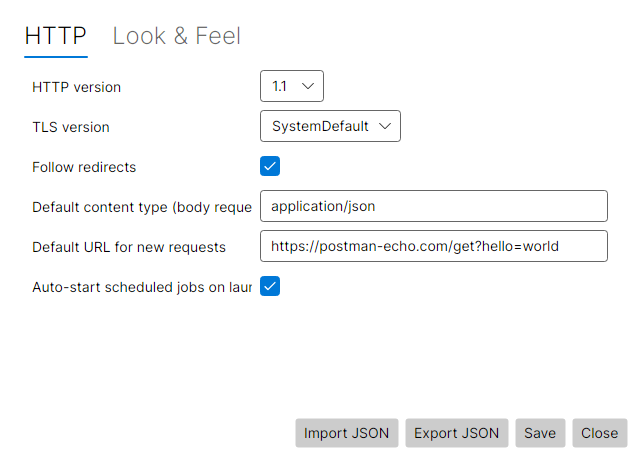
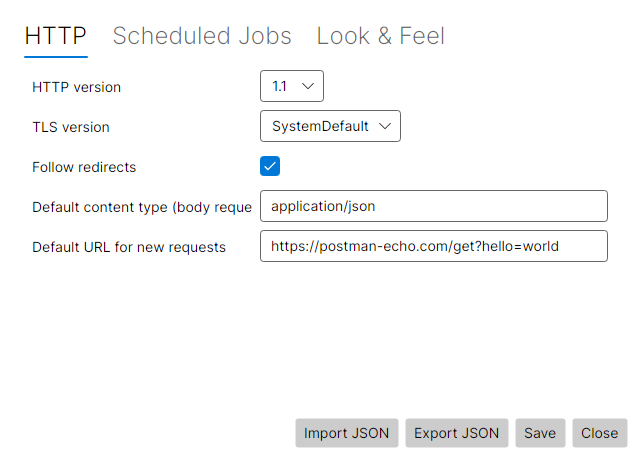
Add default interval global option for scheduled jobs
Agent-Logs-Url: https://github.com/niklaslundberg/Arbor.HttpClient/sessions/1543bb3d-784c-4af3-8e8b-c386ccefa35a

Changed region(s): [[0.0312, 0.5783, 0.4375, 0.6696], [0.1562, 0.0609, 0.4688, 0.1217], [0.5, 0.0609, 0.7188, 0.1217]]

diff --git a/src/Arbor.HttpClient.Desktop.E2E.Tests/MainWindowUiTests.cs b/src/Arbor.HttpClient.Desktop.E2E.Tests/MainWindowUiTests.cs
@@ -138,7 +138,7 @@ public class MainWindowUiTests
     }
 
     [Fact]
-    public async Task OptionsWindow_ShouldDisplayScheduledJobAutoStartToggle()
+    public async Task OptionsWindow_ShouldDisplayScheduledJobsTab_WithAutoStartAndIntervalOptions()
     {
         using var session = HeadlessUnitTestSession.StartNew(typeof(TestEntryPoint));
 
@@ -164,13 +164,26 @@ public class MainWindowUiTests
             var window = new OptionsWindow { DataContext = viewModel };
             window.Show();
 
+            // Switch to the Scheduled Jobs tab so its content is rendered
+            var tabControl = window.GetVisualDescendants().OfType<TabControl>().First();
+            var scheduledJobsTab = tabControl.Items
+                .OfType<TabItem>()
+                .First(ti => string.Equals(ti.Header?.ToString(), "Scheduled Jobs", StringComparison.Ordinal));
+            tabControl.SelectedItem = scheduledJobsTab;
+
             AvaloniaHeadlessPlatform.ForceRenderTimerTick(2);
 
-            window.GetVisualDescendants()
-                .OfType<TextBlock>()
-                .Any(tb => string.Equals(tb.Text, "Auto-start scheduled jobs on launch", StringComparison.Ordinal))
+            var textBlocks = window.GetVisualDescendants().OfType<TextBlock>().Select(tb => tb.Text).ToList();
+
+            textBlocks
+                .Any(t => string.Equals(t, "Auto-start scheduled jobs on launch", StringComparison.Ordinal))
                 .Should()
-                .BeTrue();
+                .BeTrue("auto-start toggle should be on the Scheduled Jobs tab");
+
+            textBlocks
+                .Any(t => string.Equals(t, "Default interval for new jobs", StringComparison.Ordinal))
+                .Should()
+                .BeTrue("default interval label should be on the Scheduled Jobs tab");
 
             var screenshot = window.GetLastRenderedFrame() ?? window.CaptureRenderedFrame();
             var screenshotPath = Path.Combine(Path.GetTempPath(), "arbor-httpclient-options-window.png");

diff --git a/src/Arbor.HttpClient.Desktop/ViewModels/MainWindowViewModel.cs b/src/Arbor.HttpClient.Desktop/ViewModels/MainWindowViewModel.cs
@@ -155,6 +155,9 @@ public partial class MainWindowViewModel : ViewModelBase, IDisposable
     [ObservableProperty]
     private bool _autoStartScheduledJobsOnLaunch = true;
 
+    [ObservableProperty]
+    private int _defaultScheduledJobIntervalSeconds = 60;
+
     public double UiFontSize =>
         double.TryParse(UiFontSizeText, NumberStyles.Float, CultureInfo.InvariantCulture, out var parsed)
             ? parsed
@@ -408,7 +411,8 @@ public partial class MainWindowViewModel : ViewModelBase, IDisposable
             },
             ScheduledJobs = new ScheduledJobsOptions
             {
-                AutoStartOnLaunch = AutoStartScheduledJobsOnLaunch
+                AutoStartOnLaunch = AutoStartScheduledJobsOnLaunch,
+                DefaultIntervalSeconds = Math.Max(1, DefaultScheduledJobIntervalSeconds)
             }
         };
 
@@ -430,6 +434,7 @@ public partial class MainWindowViewModel : ViewModelBase, IDisposable
         UiFontFamily = options.Appearance.FontFamily;
         UiFontSizeText = options.Appearance.FontSize.ToString("0.##", CultureInfo.InvariantCulture);
         AutoStartScheduledJobsOnLaunch = options.ScheduledJobs.AutoStartOnLaunch;
+        DefaultScheduledJobIntervalSeconds = options.ScheduledJobs.DefaultIntervalSeconds;
 
         if (updateCurrentRequestUrl || string.IsNullOrWhiteSpace(RequestUrl) || string.Equals(RequestUrl, previousDefaultUrl, StringComparison.Ordinal))
         {
@@ -464,7 +469,11 @@ public partial class MainWindowViewModel : ViewModelBase, IDisposable
     [RelayCommand]
     private void AddScheduledJob()
     {
-        ScheduledJobs.Add(new ScheduledJobViewModel(_scheduledJobRepository, _scheduledJobService));
+        var vm = new ScheduledJobViewModel(_scheduledJobRepository, _scheduledJobService)
+        {
+            IntervalSeconds = Math.Max(1, DefaultScheduledJobIntervalSeconds)
+        };
+        ScheduledJobs.Add(vm);
         LeftPanelTab = "ScheduledJobs";
     }
 

diff --git a/src/Arbor.HttpClient.Desktop.E2E.Tests/ApplicationOptionsStoreTests.cs b/src/Arbor.HttpClient.Desktop.E2E.Tests/ApplicationOptionsStoreTests.cs
@@ -17,6 +17,7 @@ public class ApplicationOptionsStoreTests
         options.Http.DefaultContentType.Should().Be("application/json");
         options.Appearance.Theme.Should().Be("System");
         options.ScheduledJobs.AutoStartOnLaunch.Should().BeTrue();
+        options.ScheduledJobs.DefaultIntervalSeconds.Should().Be(60);
     }
 
     [Fact]
@@ -75,7 +76,8 @@ public class ApplicationOptionsStoreTests
             },
             ScheduledJobs = new ScheduledJobsOptions
             {
-                AutoStartOnLaunch = false
+                AutoStartOnLaunch = false,
+                DefaultIntervalSeconds = 120
             }
         };
 
@@ -88,5 +90,37 @@ public class ApplicationOptionsStoreTests
         imported.Appearance.Theme.Should().Be("Dark");
         imported.Appearance.FontSize.Should().Be(14);
         imported.ScheduledJobs.AutoStartOnLaunch.Should().BeFalse();
+        imported.ScheduledJobs.DefaultIntervalSeconds.Should().Be(120);
+    }
+
+    [Fact]
+    public void Validate_ShouldRejectZeroDefaultInterval()
+    {
+        var options = new ApplicationOptions
+        {
+            Http = new HttpOptions
+            {
+                HttpVersion = "1.1",
+                TlsVersion = "SystemDefault",
+                DefaultContentType = "application/json",
+                FollowRedirects = true,
+                DefaultRequestUrl = "https://example.com"
+            },
+            Appearance = new AppearanceOptions
+            {
+                Theme = "System",
+                FontFamily = "Consolas",
+                FontSize = 13
+            },
+            ScheduledJobs = new ScheduledJobsOptions
+            {
+                AutoStartOnLaunch = true,
+                DefaultIntervalSeconds = 0
+            }
+        };
+
+        var action = () => ApplicationOptionsStore.Validate(options);
+
+        action.Should().Throw<InvalidDataException>().WithMessage("*interval*");
     }
 }

diff --git a/src/Arbor.HttpClient.Desktop.E2E.Tests/ScreenshotCaptureTests.cs b/src/Arbor.HttpClient.Desktop.E2E.Tests/ScreenshotCaptureTests.cs
@@ -4,6 +4,7 @@ using Avalonia;
 using Avalonia.Controls;
 using Avalonia.Headless;
 using Avalonia.Skia;
+using Avalonia.VisualTree;
 using Arbor.HttpClient.Core.Abstractions;
 using Arbor.HttpClient.Core.Models;
 using Arbor.HttpClient.Core.Services;
@@ -21,11 +22,11 @@ namespace Arbor.HttpClient.Desktop.E2E.Tests;
 public class ScreenshotCaptureTests
 {
     /// <summary>
-    /// Saves a screenshot of the Options window (HTTP tab) showing the new
-    /// "Auto-start scheduled jobs on launch" toggle to docs/screenshots/.
+    /// Saves a screenshot of the Options window (Scheduled Jobs tab) showing the
+    /// auto-start toggle and default interval option to docs/screenshots/.
     /// </summary>
     [Fact]
-    public async Task Capture_OptionsWindow_AutostartToggle()
+    public async Task Capture_OptionsWindow_ScheduledJobsTab()
     {
         using var session = HeadlessUnitTestSession.StartNew(typeof(TestEntryPoint));
 
@@ -50,10 +51,18 @@ public class ScreenshotCaptureTests
 
             var window = new OptionsWindow { DataContext = viewModel };
             window.Show();
+
+            // Switch to the Scheduled Jobs tab
+            var tabControl = window.GetVisualDescendants().OfType<TabControl>().First();
+            var scheduledJobsTab = tabControl.Items
+                .OfType<TabItem>()
+                .First(ti => string.Equals(ti.Header?.ToString(), "Scheduled Jobs", StringComparison.Ordinal));
+            tabControl.SelectedItem = scheduledJobsTab;
+
             AvaloniaHeadlessPlatform.ForceRenderTimerTick(3);
 
             var screenshot = window.GetLastRenderedFrame() ?? window.CaptureRenderedFrame();
-            var dest = Path.Combine(FindRepoRoot(), "docs", "screenshots", "options-window-autostart.png");
+            var dest = Path.Combine(FindRepoRoot(), "docs", "screenshots", "options-window-scheduled-jobs.png");
             screenshot?.Save(dest);
 
             window.Close();

diff --git a/src/Arbor.HttpClient.Desktop/Services/ApplicationOptionsStore.cs b/src/Arbor.HttpClient.Desktop/Services/ApplicationOptionsStore.cs
@@ -125,6 +125,11 @@ public sealed class ApplicationOptionsStore(string optionsPath)
         {
             throw new InvalidDataException("Font family is required.");
         }
+
+        if (options.ScheduledJobs.DefaultIntervalSeconds < 1)
+        {
+            throw new InvalidDataException("Default scheduled job interval must be at least 1 second.");
+        }
     }
 
     private static ApplicationOptions DeserializeAndValidate(string json)

diff --git a/src/Arbor.HttpClient.Desktop/Models/ApplicationOptions.cs b/src/Arbor.HttpClient.Desktop/Models/ApplicationOptions.cs
@@ -34,4 +34,6 @@ public sealed class AppearanceOptions
 public sealed class ScheduledJobsOptions
 {
     public bool AutoStartOnLaunch { get; init; } = true;
+
+    public int DefaultIntervalSeconds { get; init; } = 60;
 }
